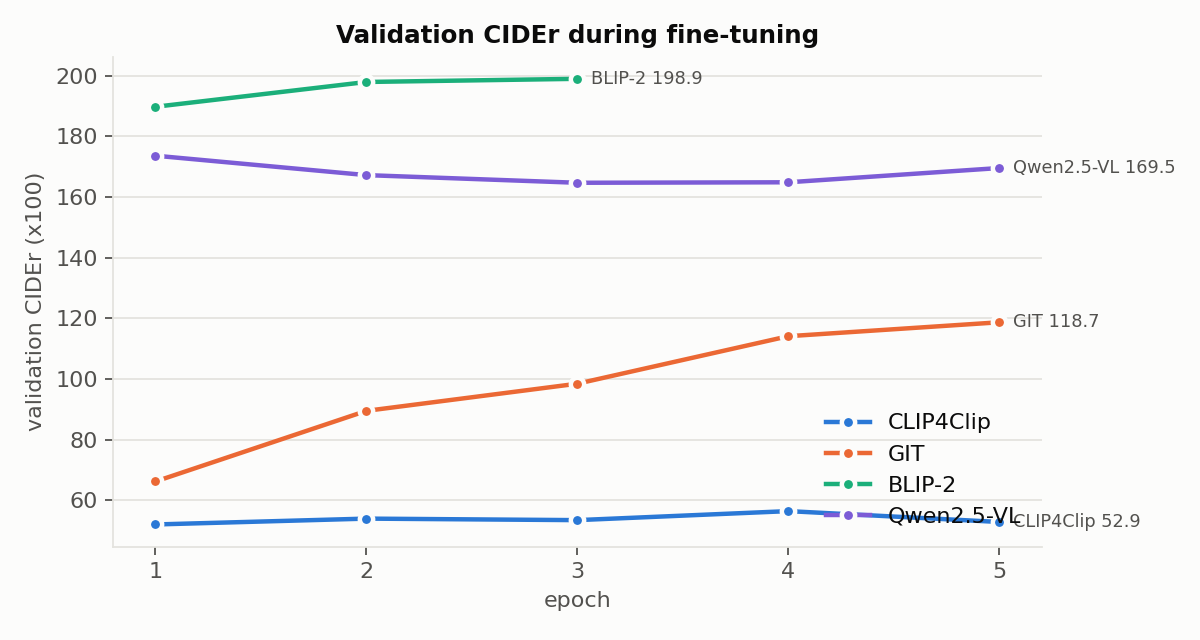
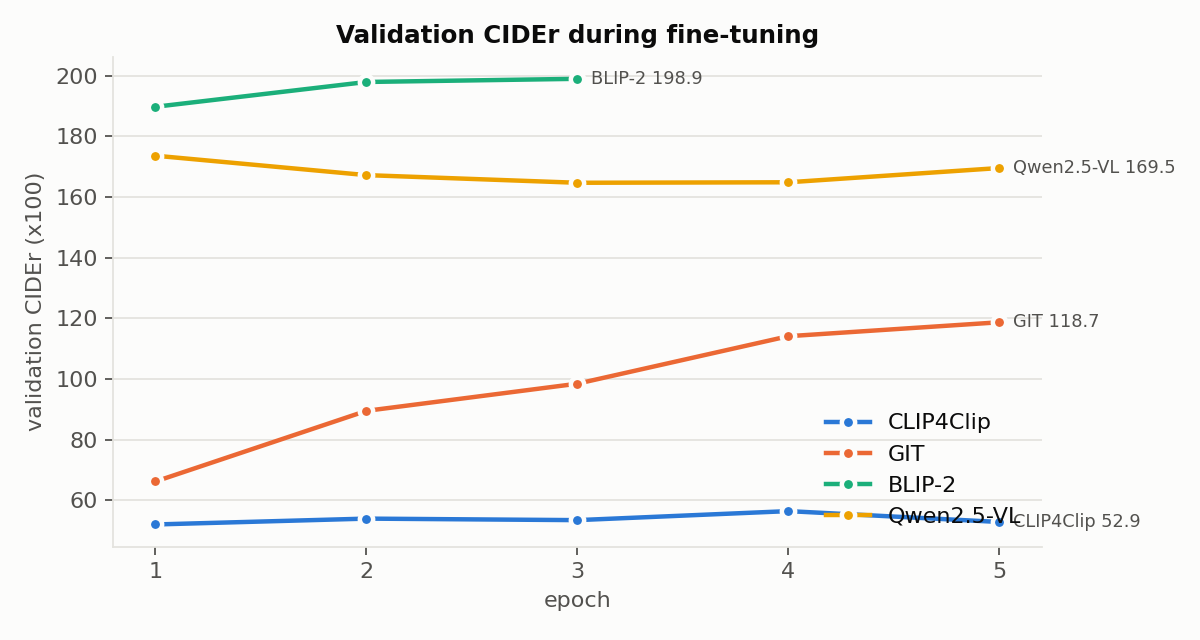
Comparison: tables + figures

Changed region(s): [[0.1233, 0.2188, 0.6783, 0.3125], [0.6783, 0.25, 0.8325, 0.2812], [0.6783, 0.7812, 0.74, 0.8125]]

diff --git a/scripts/compare_results.py b/scripts/compare_results.py
@@ -1,6 +1,6 @@
 """Build all comparison tables + figures from results/*.json and the training histories on HF Hub.
 Output: results/comparison/ (PNG figures, CSV/Markdown tables, qualitative examples).
-Add BLIP-2 later by filling its entries in FILES / RUNS - everything else updates automatically."""
+To add a model: fill its entries in FILES / RUNS / MODEL_COLOR - everything else updates automatically."""
 import argparse, json, os
 import matplotlib
 matplotlib.use("Agg")
@@ -33,8 +33,8 @@ PAPER_RETRIEVAL = {  # source: CLIP4Clip (Luo et al. 2021), MSVD text-to-video, 
 CAP_METRICS = ["BLEU-4", "METEOR", "ROUGE-L", "CIDEr"]
 RET_METRICS = ["R@1", "R@5", "R@10"]
 
-# ---------------------------------------------------------------- style (validated categorical slots 1-3)
-MODEL_COLOR = {"CLIP4Clip": "#2a78d6", "GIT": "#eb6834", "BLIP-2": "#1baf7a", "Qwen2.5-VL": "#7c5cd6"}
+# ---------------------------------------------------------------- style (validated categorical slots 1-4)
+MODEL_COLOR = {"CLIP4Clip": "#2a78d6", "GIT": "#eb6834", "BLIP-2": "#1baf7a", "Qwen2.5-VL": "#eda100"}
 REF_COLORS = ["#8a8984", "#52514e"]           # neutral grays for published reference numbers
 SURFACE, TEXT, TEXT2, GRID = "#fcfcfb", "#0b0b0b", "#52514e", "#e4e3de"
 plt.rcParams.update({
@@ -135,14 +135,14 @@ def main():
 
     # ---------------- figure 2: all models, zero-shot vs fine-tuned, one panel per metric
     if models:
-        fig, axes = plt.subplots(1, 4, figsize=(13, 3.8))
+        fig, axes = plt.subplots(1, 4, figsize=(3.6 * len(models) + 2, 4.2))
         x = np.arange(len(models)); w = 0.38
         for ax, met in zip(axes, CAP_METRICS):
             for j, m in enumerate(models):
                 zs, ft = res.get((m, "Zero-shot")), res.get((m, "Fine-tuned"))
                 bar(ax, [x[j] - w / 2], [zs[met] if zs else np.nan], w, MODEL_COLOR[m], "//")
                 bar(ax, [x[j] + w / 2], [ft[met] if ft else np.nan], w, MODEL_COLOR[m])
-            ax.set_xticks(x, models); ax.set_title(met)
+            ax.set_xticks(x, models, rotation=20, ha="right"); ax.set_title(met)
         axes[0].set_ylabel("score (x100)")
         from matplotlib.patches import Patch
         fig.legend(handles=[Patch(facecolor=SURFACE, edgecolor=TEXT2, hatch="//", label="Zero-shot"),
